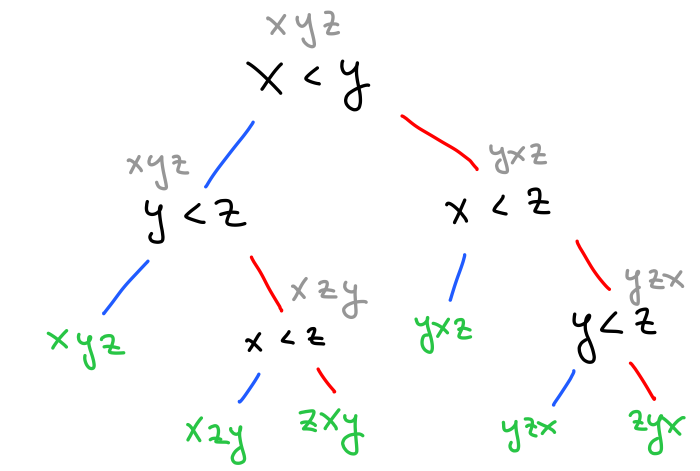
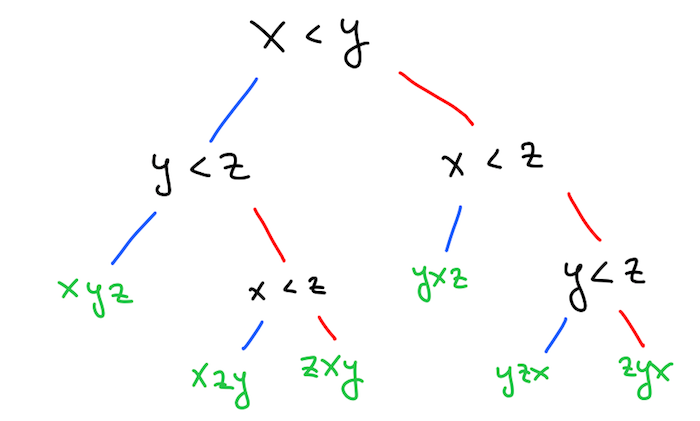
Gradiva s predavanj

diff --git a/11-deli-in-vladaj/predavanja/prosojnice.html b/11-deli-in-vladaj/predavanja/prosojnice.html
@@ -18,9 +18,9 @@ class: center, middle
 
 ### Strategija **deli in vladaj** ima tri korake
 
-1. nalogo razdelimo na manjše podnaloge
-2. podnaloge rekurzivno rešimo
-3. dobljene rešitve združimo v rešitev prvotne naloge
+1. nalogo **razdelimo** na manjše podnaloge
+2. podnaloge **rekurzivno rešimo**
+3. dobljene rešitve **združimo** v rešitev prvotne naloge
 
 ---
 
@@ -69,9 +69,44 @@ class: center
 
 ---
 
-class: center, middle
+class: question
 
-## Rešitev enačbe \\(T(n) = O(n) + 2 T(n / 2)\\)
+### **Časovna zahtevnost** urejanja z zlivanjem
+
+![](slike/urejanje-z-zlivanjem.png)
+
+--
+
+### \\(T(n) = O(n) + 2 T(n / 2) + O(n) \\)
+
+
+---
+
+### Kako rešimo enačbo \\(T(n) = O(n) + 2 T(n / 2)\\)?
+
+--
+
+### \\(T(n) = O(n) + 2 T(n / 2)\\)
+
+--
+
+### \\(\\hphantom{T(n)} = O(n) + 2 O(n / 2) + 4 T(n / 4)\\)
+
+--
+
+### \\(\\hphantom{T(n)} = O(n) + 2 O(n / 2) + 4 O(n / 4) + 8 T(n / 8)\\)
+
+--
+
+### \\(\\hphantom{T(n)} = \cdots = k O(n) + 2^k T(n / 2^k) \\)
+
+--
+
+### \\(\\hphantom{T(n)} = \lceil \log_2 n \rceil O(n) + 2^{\lceil \log_2 n \rceil} O(1) \\)
+
+--
+
+### \\(\\hphantom{T(n)} = O(n \log n) \\)
 
 ---
 
@@ -98,9 +133,9 @@ class: center
 
 ---
 
-class: center, middle
+### Urejanje **s primerjavo** je \\(\Omega(n \log n)\\)
 
-## Urejanje **s primerjavo** je \\(\Omega(n \log n)\\)
+![](slike/odlocitveno-drevo.png)
 
 ---
 
